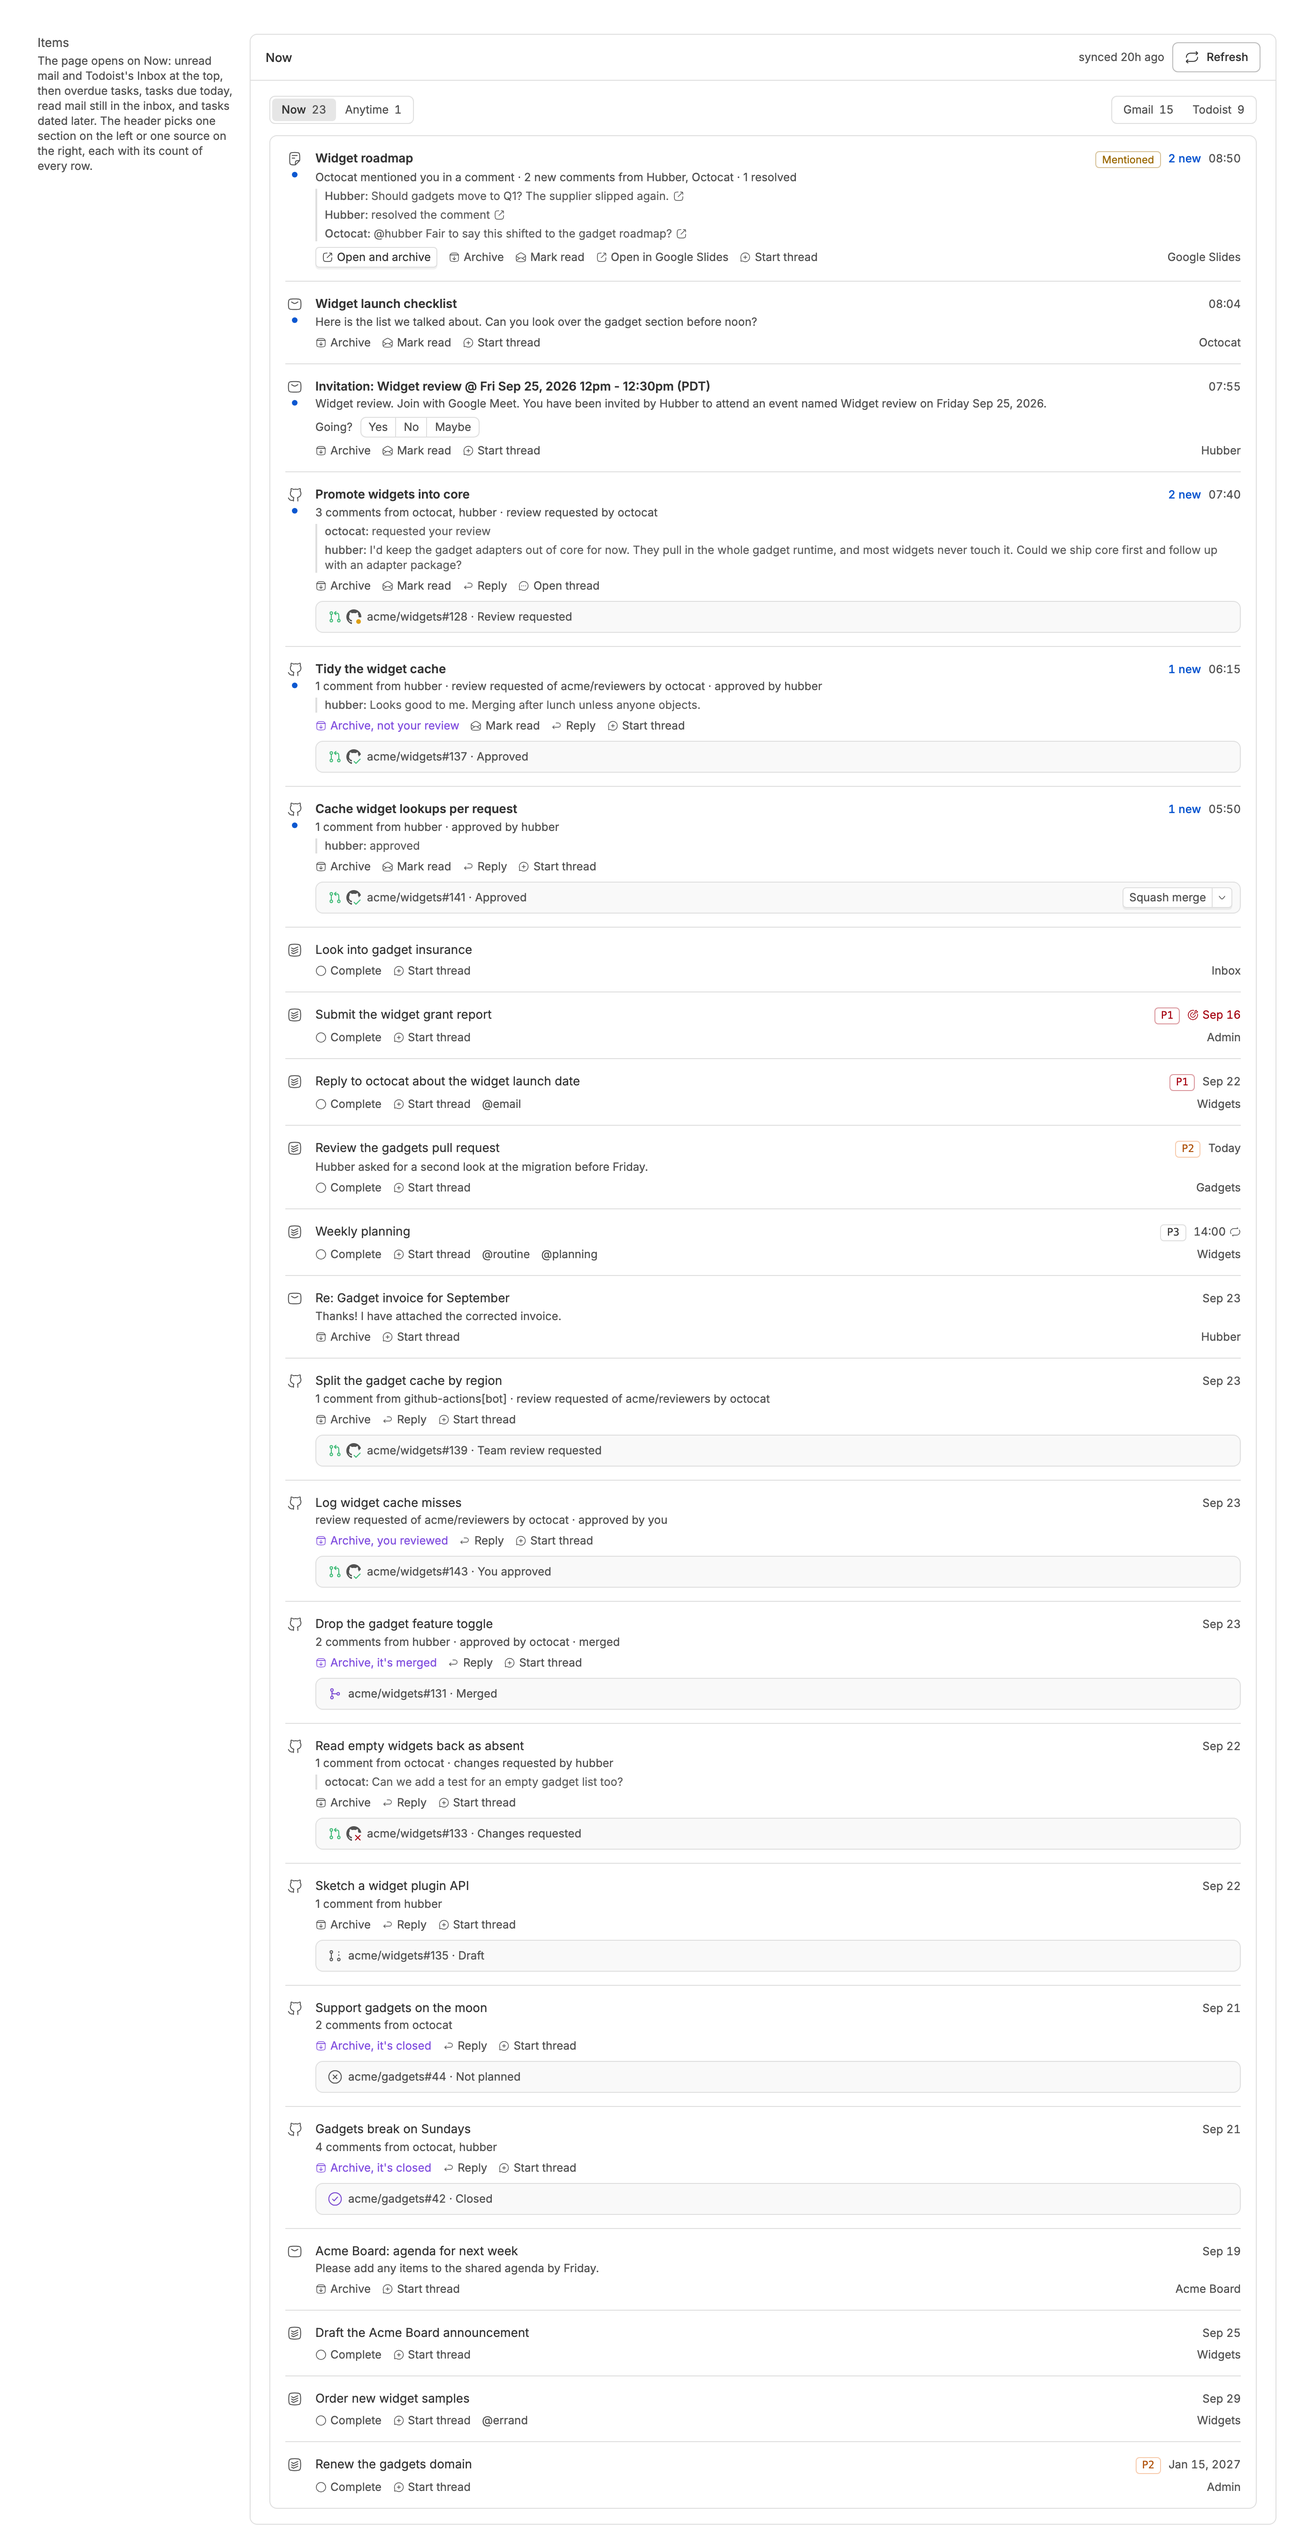
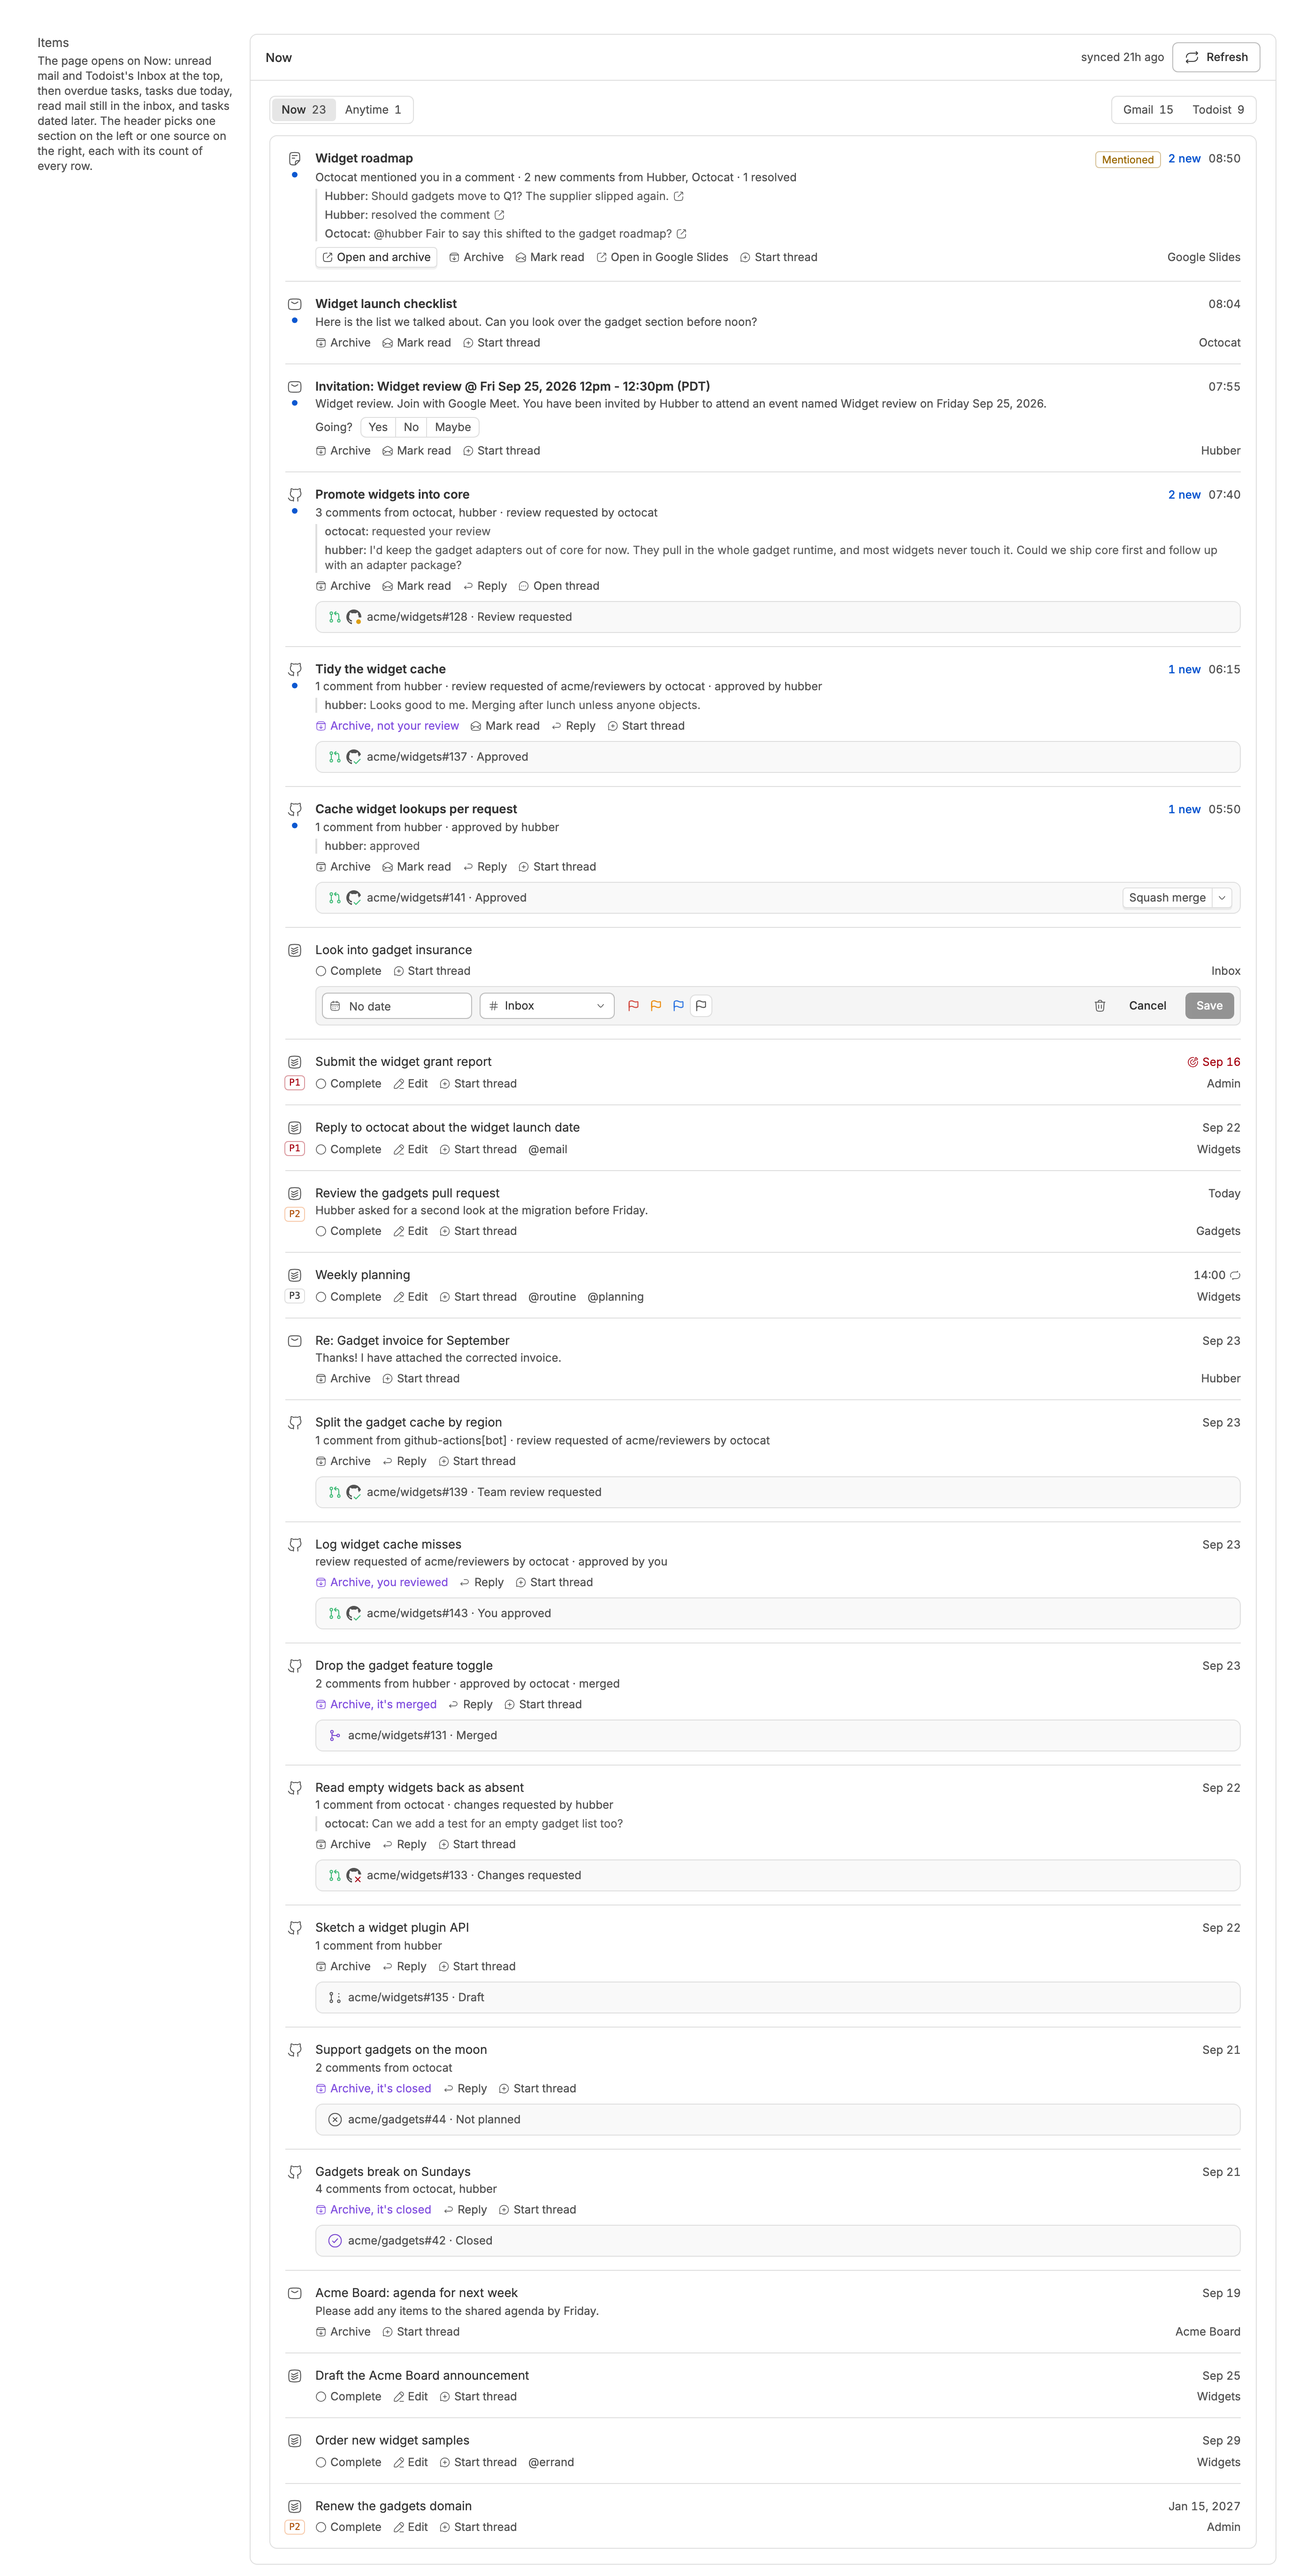
7edbb05 Edit Todoist tasks from their rows in Now
danielbachhuber/bb-plugins@7edbb05ce3a2f500def46a01e0f8c675f23e0bb4

diff --git a/now/README.md b/now/README.md
@@ -2,7 +2,7 @@
 
 # Now
 
-One list of what needs doing now, from Todoist and your Gmail inbox, with GitHub notifications gathered per pull request or issue and Google Docs comments per document. Complete tasks, archive email or mark it read, answer calendar invitations, reply on GitHub, merge your own pull requests, and start a thread from any row.
+One list of what needs doing now, from Todoist and your Gmail inbox, with GitHub notifications gathered per pull request or issue and Google Docs comments per document. Complete, reschedule, reprioritize, move, or delete tasks, archive email or mark it read, answer calendar invitations, reply on GitHub, merge your own pull requests, and start a thread from any row.
 
 Source: [`bb-plugin-now`](https://github.com/danielbachhuber/bb-plugins/tree/main/bb-plugin-now)
 
